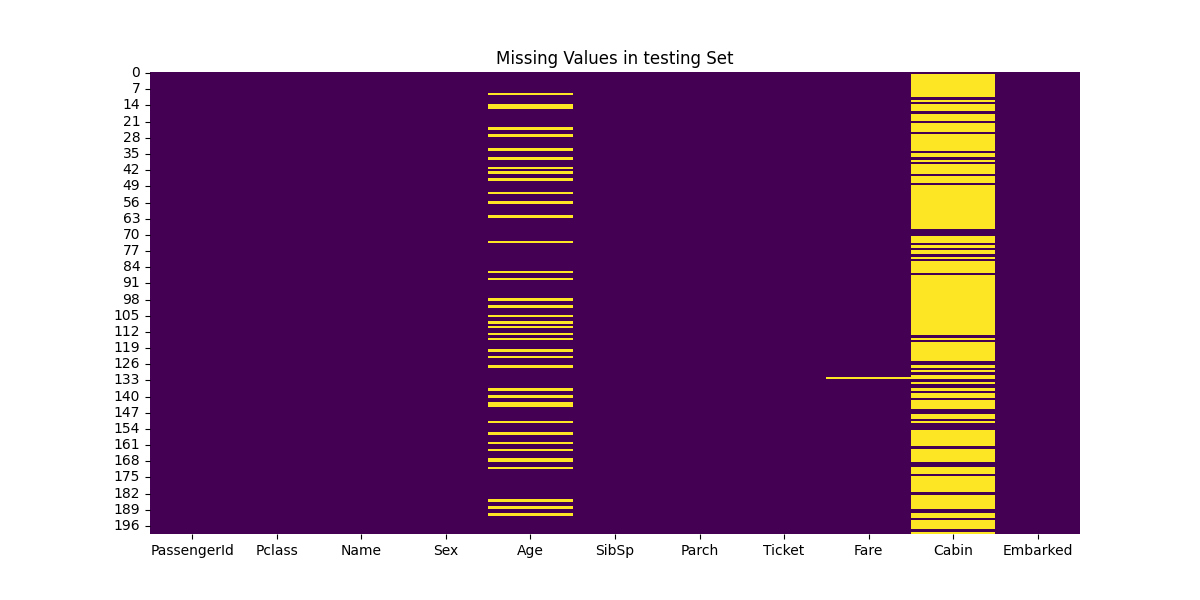
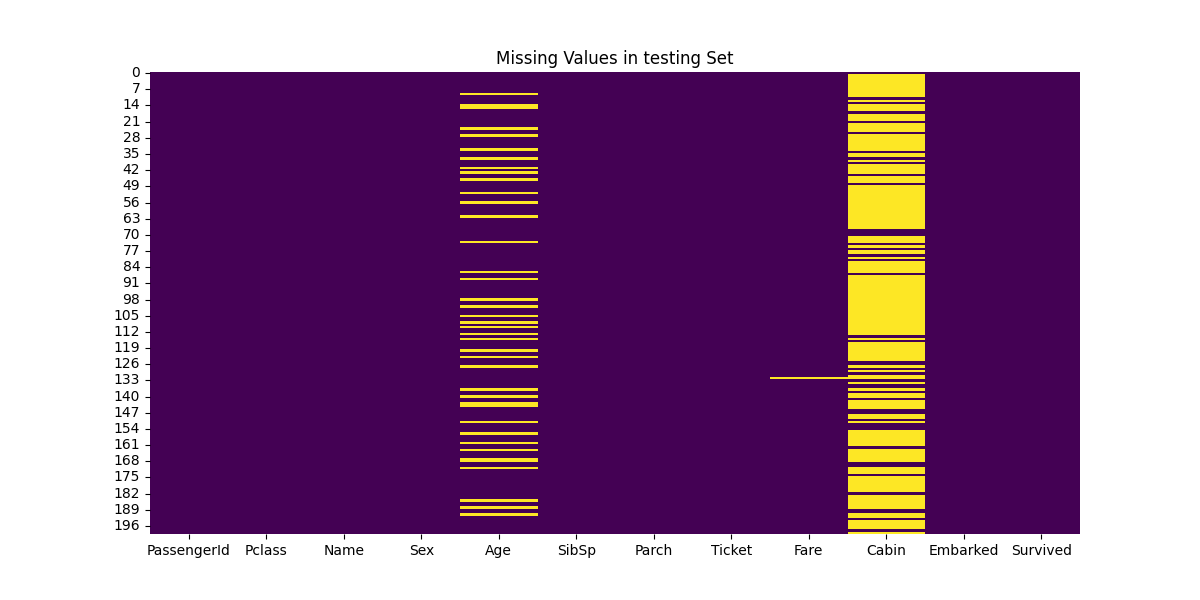
added test dataset eda analysis and procesed test dataset csv generation

diff --git a/test_eda_analis.py b/test_eda_analis.py
@@ -1,0 +1,127 @@
+import pandas as pd
+import numpy as np
+import matplotlib.pyplot as plt
+import seaborn as sns
+
+cols = ['Pclass','Sex','Age','SibSp','Parch','Fare','Embarked']
+
+# Load Titanic datasets
+test_df = pd.read_csv('test.csv')
+
+# Display basic info
+print("testing set shape:", test_df.shape)
+print("\ntesting set columns:", test_df.columns.tolist())
+
+# Missing Value Analysis
+def analyze_missing(df, dataset_name):
+    missing = df.isnull().sum()
+    percent = (missing / len(df)) * 100
+    result = pd.DataFrame({'Missing': missing, 'Percent (%)': percent})
+    print(f"\nMissing values in {dataset_name} set:")
+    print(result[result['Missing'] > 0])
+
+analyze_missing(test_df, "testing")
+
+# Visualize missing values
+plt.figure(figsize=(12, 6))
+sns.heatmap(test_df.isnull(), cbar=False, cmap='viridis')
+plt.title('Missing Values in testing Set')
+plt.savefig('plots/test_missing_values.png')
+# plt.show()
+
+
+# Handle Missing Values
+# Age – fill with median (avoid chained inplace)
+test_df['Age'] = test_df['Age'].fillna(test_df['Age'].median())
+
+# Cabin – drop column by reassignment
+test_df = test_df.drop('Cabin', axis=1)
+
+# Embarked – fill with mode instead of median
+test_df['Embarked'] = test_df['Embarked'].fillna(test_df['Embarked'].mode()[0])
+
+# Descriptive Statistics
+print("\ntesting set statistics:")
+print(test_df.describe())
+
+# Categorical features
+cat_cols = ['Pclass', 'Sex', 'Embarked', 'Survived']
+for col in cat_cols:
+    if col in test_df.columns:
+        print(f"\n{col} distribution:")
+        print(test_df[col].value_counts(normalize=True))
+
+# Data Visualization
+# Numerical features distributions
+num_cols = ['Age', 'Fare', 'SibSp', 'Parch']
+test_df[num_cols].hist(figsize=(12, 8), bins=20)
+plt.suptitle('Distributions of Numerical Features')
+plt.savefig('plots/test_numerical_distributions.png')
+# plt.show()
+
+# Categorical features by Survival
+for col in ['Pclass', 'Sex', 'Embarked']:
+    plt.figure(figsize=(6, 4))
+    sns.countplot(data=test_df, x=col, hue='Survived')
+    plt.title(f'Distribution of {col} by Survival')
+    plt.savefig(f'plots/test_{col}_by_survival.png')
+    # plt.show()
+
+# Outlier detection
+for col in num_cols:
+    plt.figure(figsize=(6, 4))
+    sns.boxplot(data=test_df, y=col)
+    plt.title(f'Boxplot for {col}')
+    plt.savefig(f'plots/test_{col}_boxplot.png')
+    # plt.show()
+
+# Correlation Analysis
+# Encode categorical variables
+test_encoded = pd.get_dummies(test_df, columns=['Sex', 'Embarked'], drop_first=True)
+
+# Select numerical columns + encoded columns + target
+corr_cols = num_cols + ['Sex_male', 'Embarked_Q', 'Embarked_S', 'Survived']
+plt.figure(figsize=(10, 6))
+sns.heatmap(test_encoded[corr_cols].corr(), annot=True, cmap='coolwarm', center=0)
+plt.title('Correlation Heatmap')
+plt.savefig('plots/test_correlation_heatmap.png')
+# plt.show()
+
+
+
+# --- Feature vs Target Relationship Analysis ---
+# Violin plots for numeric features vs binary target
+for col in num_cols:
+    plt.figure(figsize=(8, 5))
+    sns.violinplot(data=test_df, x='Survived', y=col, palette='Set2', hue='Survived')
+    plt.title(f'{col} Distribution by Survival')
+    plt.xticks([0, 1], ['Died', 'Survived'])
+    plt.savefig(f'plots/test_{col}_violin_by_survival.png')
+    # plt.show()
+
+# Countplots for categorical features vs target
+for col in cat_cols:
+    if col != 'Survived':
+        plt.figure(figsize=(8, 5))
+        sns.countplot(data=test_df, x=col, hue='Survived', palette='Set1')
+        plt.title(f'{col} vs Survival Count')
+        plt.legend(title='Survived', labels=['Died', 'Survived'])
+        plt.savefig(f'plots/test_{col}_count_by_survival.png')
+        # plt.show()
+
+# Scatter plot for two numeric features colored by target
+plt.figure(figsize=(8, 6))
+sns.scatterplot(data=test_df, x='Age', y='Fare', hue='Survived', palette='coolwarm', alpha=0.7)
+plt.title('Age vs Fare by Survival')
+plt.legend(title='Survived', labels=['Died', 'Survived'])
+plt.savefig('plots/test_age_fare_scatter_by_survival.png')
+# plt.show()
+
+
+test_df = test_df.drop(columns=['Name'])  # Drop 'Name' column as it is not useful for analysis
+test_df = test_df.drop(columns=['PassengerId'])  # Drop 'PassengerId' as it is not useful for analysis
+test_df = test_df.drop(columns=['Ticket'])  # Drop 'Ticket' as it is not useful for analysis
+
+# Save processed testing data  
+test_df.to_csv('test_processed.csv', index=False)
+

diff --git a/train_model.py b/train_model.py
@@ -6,6 +6,8 @@ import seaborn as sns
 
 from sklearn.model_selection import train_test_split
 from sklearn.linear_model import LogisticRegression
+from sklearn.impute import SimpleImputer
+from sklearn.pipeline import Pipeline
 from sklearn.metrics import (
     accuracy_score, precision_score, recall_score, f1_score,
     confusion_matrix, classification_report
@@ -14,40 +16,42 @@ from sklearn.metrics import (
 # Ensure output directory for plots
 os.makedirs('plots', exist_ok=True)
 
-# Load processed dataset
+# Load and encode training set
 data = pd.read_csv('train_processed.csv')
-
-# --- Encode categorical features so all columns are numeric ---
-# Map 'Sex' to 0/1
 data['Sex'] = data['Sex'].map({'female': 0, 'male': 1})
-
-# One-hot encode 'Embarked' if still present
 if 'Embarked' in data.columns:
     data = pd.get_dummies(data, columns=['Embarked'], drop_first=True)
 
-# --- end encoding ---
+y_train = data.pop('Survived')
+X_train = data
 
-# Separate features and target
-y_train = data['Survived']
-X_train = data.drop(columns=['Survived'])
+# Load and encode test set
+data_test = pd.read_csv('test_processed.csv')
+data_test['Sex'] = data_test['Sex'].map({'female': 0, 'male': 1})
+if 'Embarked' in data_test.columns:
+    data_test = pd.get_dummies(data_test, columns=['Embarked'], drop_first=True)
 
-data = pd.read_csv('test.csv')
+y_test = data_test.pop('Survived')
+X_test = data_test
 
-y_test = data['Survived']
-X_test = data.drop(columns=['Survived'])
+# align test to train columns
+X_test = X_test.reindex(columns=X_train.columns, fill_value=0)
 
-# Train a baseline logistic regression model
-model = LogisticRegression(max_iter=1000000)
-model.fit(X_train, y_train)
+# Build pipeline with imputer
+pipeline = Pipeline([
+    ('imputer', SimpleImputer(strategy='median')),
+    ('clf', LogisticRegression(max_iter=10000))
+])
 
-# Predict on test set
-y_pred = model.predict(X_test)
+# Train & predict
+pipeline.fit(X_train, y_train)
+y_pred = pipeline.predict(X_test)
 
-# Calculate evaluation metrics
-acc = accuracy_score(y_test, y_pred)
+# Metrics
+acc  = accuracy_score(y_test, y_pred)
 prec = precision_score(y_test, y_pred)
-rec = recall_score(y_test, y_pred)
-f1 = f1_score(y_test, y_pred)
+rec  = recall_score(y_test, y_pred)
+f1   = f1_score(y_test, y_pred)
 
 print("Baseline Logistic Regression Performance:")
 print(f"Accuracy:  {acc:.4f}")
@@ -55,17 +59,15 @@ print(f"Precision: {prec:.4f}")
 print(f"Recall:    {rec:.4f}")
 print(f"F1-score:  {f1:.4f}\n")
 
-# Detailed classification report
 print("Classification Report:")
 print(classification_report(y_test, y_pred, target_names=['Died','Survived']))
 
-# Confusion matrix
+# Confusion matrix plot
 cm = confusion_matrix(y_test, y_pred)
 fig, ax = plt.subplots(figsize=(6,5))
-sns.heatmap(
-    cm, annot=True, fmt='d', cmap='Blues', ax=ax,
-    xticklabels=['Died','Survived'], yticklabels=['Died','Survived']
-)
+sns.heatmap(cm, annot=True, fmt='d', cmap='Blues', ax=ax,
+            xticklabels=['Died','Survived'],
+            yticklabels=['Died','Survived'])
 ax.set_xlabel('Predicted')
 ax.set_ylabel('Actual')
 ax.set_title('Confusion Matrix - Baseline Logistic Regression')
